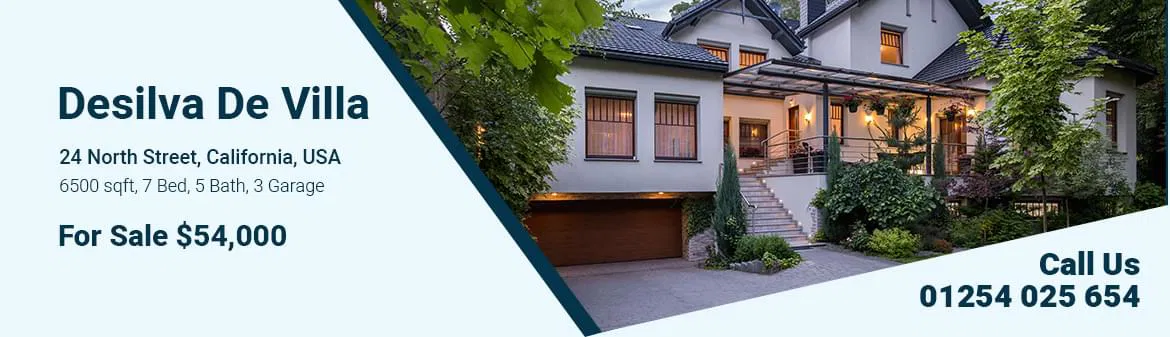
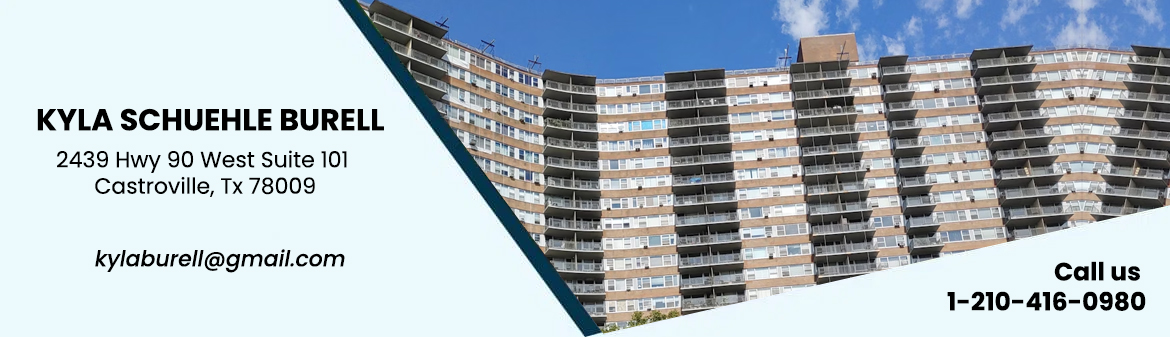
final

diff --git a/src/routes/contact/+page.svelte b/src/routes/contact/+page.svelte
@@ -2,6 +2,7 @@
   import { onMount } from "svelte";
   import gsap from "gsap";
   import { ScrollTrigger } from "gsap/ScrollTrigger";
+  import Hero from "$lib/assets/contact.webp";
 
   onMount(() => {
     gsap.utils.toArray<HTMLElement>(".fade-up").forEach((el) => {
@@ -32,9 +33,9 @@
 <!-- Hero Section -->
 <section
   class="relative bg-cover bg-center h-[60vh] flex items-center justify-center"
-  style="background-image: url('/images/contact-bg.jpg')"
+  style="background-image: url('{Hero}')"
 >
-  <div class="absolute inset-0 bg-black bg-opacity-60"></div>
+  <div class="absolute inset-0 bg-black opacity-60"></div>
   <div class="relative text-center text-white px-6 fade-up">
     <h1 class="text-4xl md:text-5xl font-bold mb-4">
       Contact Kyla Schuehle Burell
